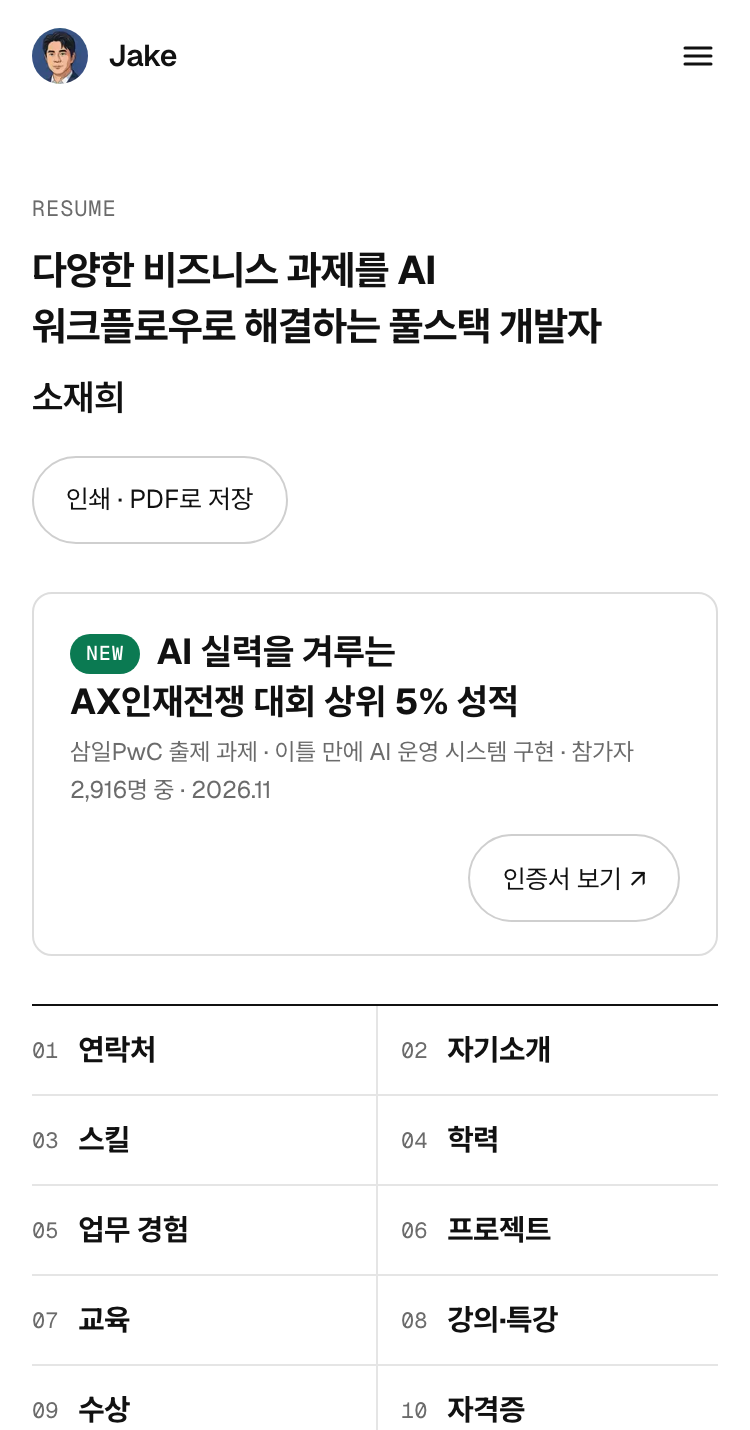
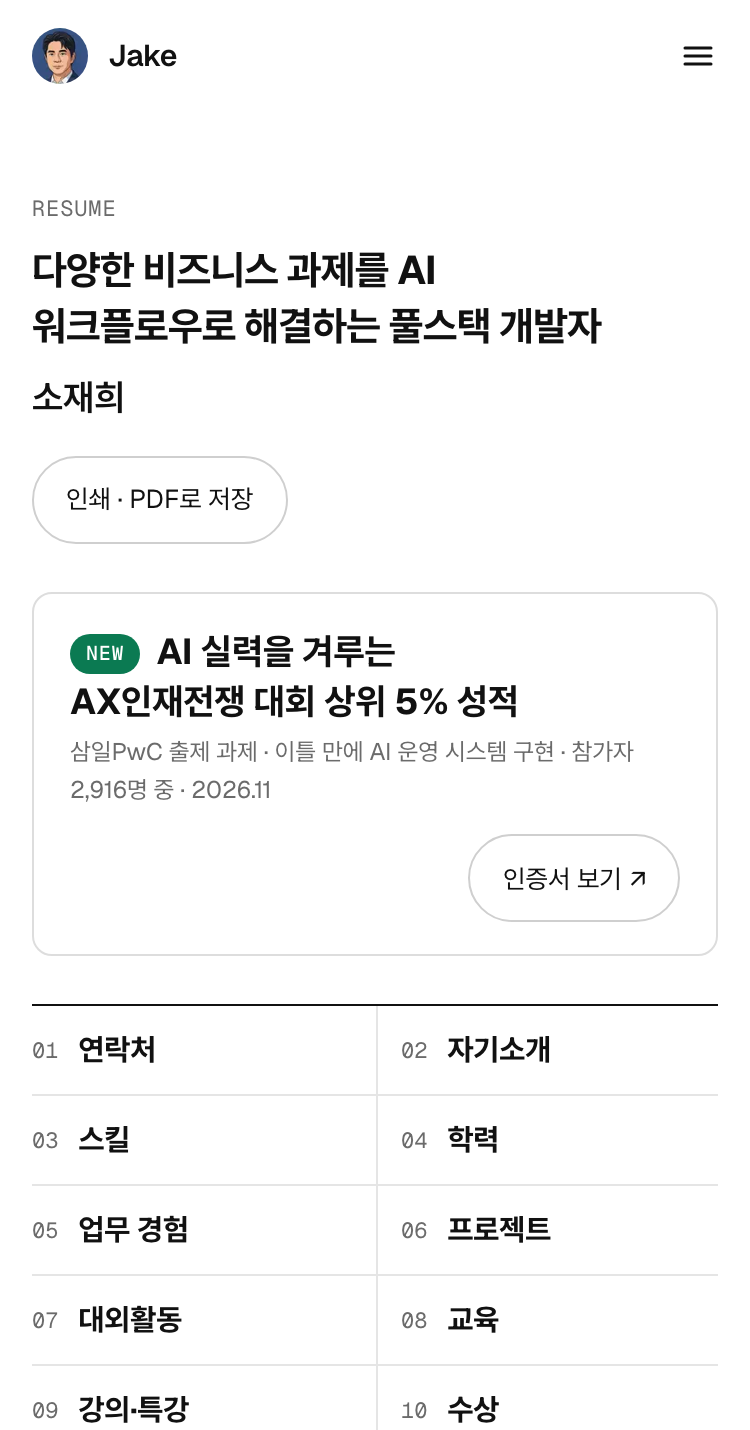
docs: record certificates leaving the resume index

Changed region(s): [[0.092, 0.8923, 0.2453, 1.0], [0.5827, 0.8923, 0.736, 1.0]]

diff --git a/docs/02-ia.md b/docs/02-ia.md
@@ -427,7 +427,7 @@ Design 캔버스에 실제 문구로 그린 `/ai` 시안입니다.
   - 문구와 링크는 `content/site/home.md`의 `sections.ai.award` 한 곳에 두고 두 페이지가 같이 씁니다. 뱃지 글자는 `content/site/resume-page.md`의 `awardBadge`입니다. 홈 띠에는 뱃지를 달지 않습니다.
   - 이력서에 새로 생긴 대외활동을 본문 중간의 절에서만 보이게 두지 않고 맨 위에서 먼저 보이게 하려는 것입니다. 본문 대외활동 절의 항목을 띠로 그리는 안도 만들어 봤지만, 자리가 본문 깊숙해 눈에 띄지 않아 쓰지 않았습니다.
 - 목차는 원문의 절(h2) 가운데 열 개입니다. 데스크톱은 다섯 칸 두 줄, 모바일은 두 칸 다섯 줄이고 화면에 고정하지 않습니다.
-  - 대외활동 절은 목차에 싣지 않습니다(2026-11-23, `resume-page.md`의 `index: false`). 절이 열한 개가 되면 마지막 칸이 혼자 한 줄에 남습니다. 여섯 칸, 네 칸, 다섯 칸에 한 칸 남기기를 비교했고, 칸을 늘리지 않고 위의 띠로 보이기로 했습니다. 절 제목과 id(`activities`)는 본문에 그대로 있고, 본문은 다른 절처럼 원문 그대로 그립니다.
+  - 자격증 절은 목차에 싣지 않습니다(2026-11-23, `resume-page.md`의 `index: false`). 대외활동 절이 생겨 절이 열한 개가 되면 마지막 칸이 혼자 한 줄에 남습니다. 여섯 칸, 네 칸, 다섯 칸에 한 칸 남기기를 비교했고, 칸을 늘리지 않기로 했습니다. 처음에는 대외활동을 목차에서 뺐습니다. 그런데 본문 절 제목에는 번호가 없어 목차에서 어느 절을 빼도 본문과 번호가 어긋나지 않으므로, 대외활동을 목차에 싣고 맨 끝 절인 자격증을 뺐습니다. 자격증 절은 본문 맨 끝에 그대로 있습니다.
 - 절의 id는 영어로 고정합니다: `contact`, `about`, `skills`, `education`, `experience`, `projects`, `activities`, `training`, `talks`, `awards`, `certificates`(2026-11-23 대외활동 절이 생기고 강의·특강이 수상 앞으로 왔습니다). 목차에 싣지 않는 절도 이 목록에는 둡니다. 원문의 절이 바뀌어 목록과 맞지 않으면 빌드와 테스트가 멈춥니다.
 
 **본문**

diff --git a/docs/devlog/2026-11-23-home-ai-award.md b/docs/devlog/2026-11-23-home-ai-award.md
@@ -6,7 +6,7 @@
 - AX인재전쟁 온라인은 기업이 낸 실제 과제로 AI 실력을 겨루는 대회입니다. 띠에는 결과 한 줄과 인증서 링크만 실었습니다.
 - 문구와 링크는 사이트 전용 글 `content/site/home.md`의 `sections.ai.award`에 두었습니다. 사실의 출처는 이력서의 대외활동 절과 공개 인증서 페이지입니다.
 - 이력서를 다시 가져와 `/resume`에 자기소개 한 문단과 인증서 안내 한 줄, 대외활동 절이 생겼고, 강의·특강이 수상 앞으로 왔습니다. `content/site/resume-page.md`의 절 목록을 원문 순서에 맞췄습니다.
-- `/resume` 머리와 목차 사이에 홈과 같은 띠를 두고 첫 줄 앞에 `NEW` 뱃지를 달았습니다. 띠를 컴포넌트 하나(`AwardBand`)로 꺼내 두 페이지가 같은 문구와 링크를 씁니다. 맨 위 목차는 열 칸 그대로이고, 대외활동 절은 목차에 싣지 않습니다.
+- `/resume` 머리와 목차 사이에 홈과 같은 띠를 두고 첫 줄 앞에 `NEW` 뱃지를 달았습니다. 띠를 컴포넌트 하나(`AwardBand`)로 꺼내 두 페이지가 같은 문구와 링크를 씁니다. 맨 위 목차는 열 칸 그대로이고, 대외활동이 들어가는 대신 맨 끝 절인 자격증이 빠집니다.
 - 자리와 문구는 [IA](../02-ia.md#3-ai로-일하는-방식)에, 값과 캡처는 [디자인 문서](../03-design.md#홈-ai-섹션-띠에서-정한-값)에 있습니다.
 - 생김새와 문구를 비교판에서 먼저 정했고 새 페이지, 새 컴포넌트, 의존성이 없는 변경이라 설계 문서와 계획 문서 없이 구현했습니다.
 
